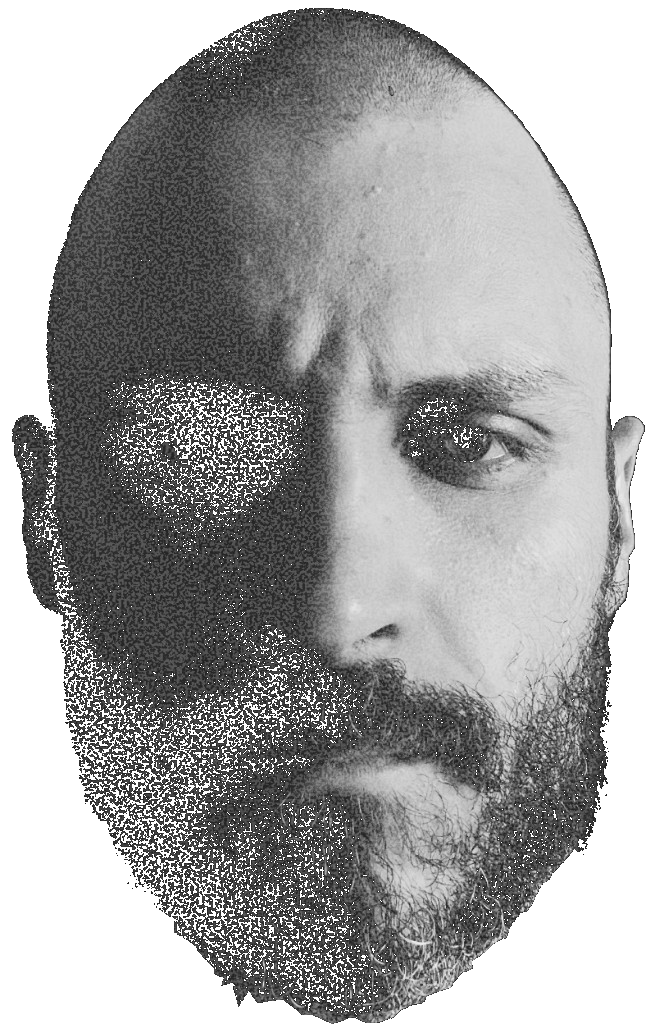
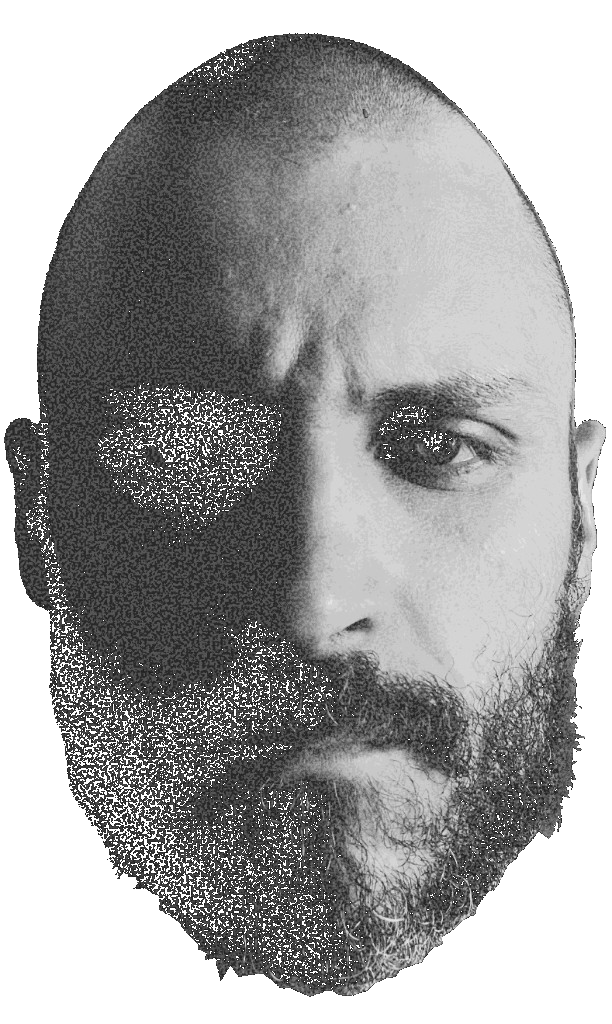
Set mode D background to #1F1F1F

Changed region(s): [[0.0, 0.0, 0.9935, 1.0]]

diff --git a/src/components/home/MobileHomeControls.tsx b/src/components/home/MobileHomeControls.tsx
@@ -18,8 +18,8 @@ const CV_NOTION_URL =
   "https://malliburo.notion.site/Valeriy-Kolpaschikov-UI-UX-designer-9b361fde1ba749a6b58b65946d9418bf?pvs=4";
 const DEFAULT_MOBILE_BG = "#232003";
 const DEFAULT_MOBILE_FG = "#c7c7c7";
-const MOBILE_FILTER_D_HEAD_IMAGE = "/cases/Mobile/mobile-filter-d-head.gif?v=1";
-const MOBILE_FILTER_D_BG = "#232323";
+const MOBILE_FILTER_D_HEAD_IMAGE = "/cases/Mobile/mobile-filter-d-head.gif?v=11";
+const MOBILE_FILTER_D_BG = "#1F1F1F";
 const MOBILE_FILTER_D_HEAD_OFFSET_Y = 40;
 const CYCLE_COOLDOWN_MS = 350;
 

diff --git a/scripts/clean-mobile-filter-head.py b/scripts/clean-mobile-filter-head.py
@@ -1,0 +1,39 @@
+#!/usr/bin/env python3
+from pathlib import Path
+
+from PIL import Image, ImageSequence
+
+OUTPUT = Path("public/cases/Mobile/mobile-filter-d-head.gif")
+SOURCE = Path("/Users/harakiri/Downloads/ezgif.com-gif-maker-3.gif")
+TARGET_WIDTH = 918
+
+
+def main():
+    frames = []
+    durations = []
+
+    for frame in ImageSequence.Iterator(Image.open(SOURCE)):
+        rgba = frame.convert("RGBA")
+        width, height = rgba.size
+        target_height = round(height * TARGET_WIDTH / width)
+        frames.append(rgba.resize((TARGET_WIDTH, target_height), Image.Resampling.LANCZOS))
+        durations.append(frame.info.get("duration", 100))
+
+    frames[0].save(
+        OUTPUT,
+        save_all=True,
+        append_images=frames[1:],
+        duration=durations,
+        loop=0,
+        disposal=2,
+        optimize=True,
+    )
+
+    print(
+        f"Synced {SOURCE} -> {OUTPUT} "
+        f"({len(frames)} frames, {frames[0].size[0]}x{frames[0].size[1]})"
+    )
+
+
+if __name__ == "__main__":
+    main()